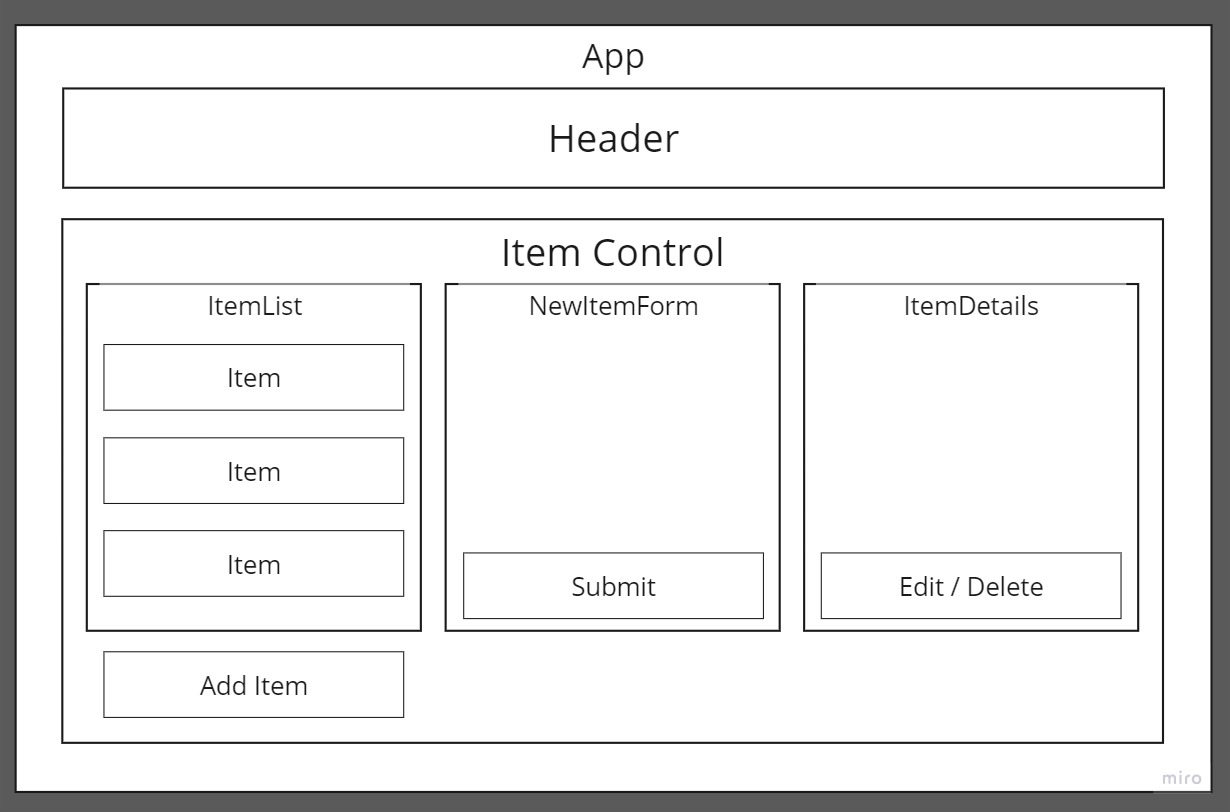
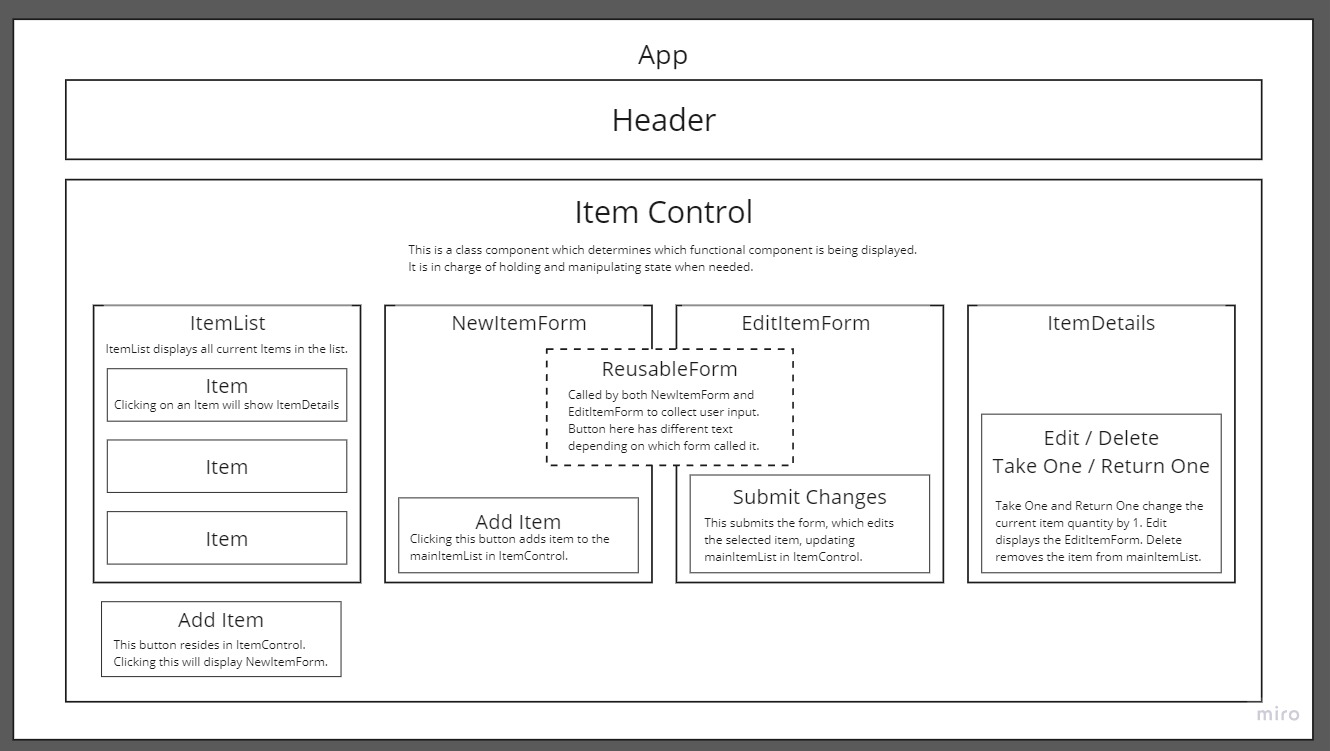
update component diagram in README

Changed region(s): [[0.0, 0.0, 0.9886, 1.0]]

diff --git a/README.md b/README.md
@@ -2,7 +2,7 @@
 
 #### By Jonathan Cheng
 
-#### This web application is an inventory tracker for laboratory glassware. The user can add item entries representing a specific piece of laboratory glassware with properties such as name, type, volume (how much the glassware can store), and quantity (number of this specific glassware the lab is in possession of). The user may choose to edit entries or delete them entirely. The list will be updated to reflect any changes.
+#### This web application is an inventory tracker for laboratory glassware. The user can add item entries representing a specific kind of laboratory glassware with properties such as name, type, volume (how much the glassware can store), and quantity (number of this specific glassware the lab is in possession of). The user may choose to edit entries or delete them entirely. A decrement button is available to denote that an item is being used. An increment button is for if the item is being put back. The item entries will be updated to reflect any changes.
 
 ## Technologies Used
 
@@ -22,7 +22,7 @@ _This app is the result of a day long individual project to demonstrate understa
 
 ## Component Diagram
 
-<img src="./src/img/component diagram.jpg" width="60%">
+<img src="./src/img/component diagram.jpg" width="70%">
 
 ## Setup/Installation Requirements
 
@@ -56,7 +56,7 @@ _3. Clone the repository from the GitHub link by entering in this command:_
 
 ## Known Bugs
 
-- _Kindly report any bugs you find with a descriptive message to joncheng.dev@gmail.com_
+- _No currently known bugs. If you happen upon any, please report your find with a descriptive message to joncheng.dev@gmail.com_
 
 ## License
 
